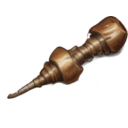
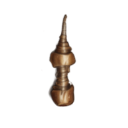
projectiles in angle

Changed region(s): [[0.0312, 0.0938, 1.0, 0.8438]]

diff --git a/game/savegame/travel/main/SpriteModel.js b/game/savegame/travel/main/SpriteModel.js
@@ -1,6 +1,6 @@
 import ImageModel from "wgge/game/resources/image/ImageModel";
-import FloatValue from "wgge/core/model/value/FloatValue";
 import Vector2 from "wgge/core/model/vector/Vector2";
+import Rotation from "wgge/core/model/vector/Rotation";
 
 export const SPRITE_SPLATTER = 'img/character/splatter.png';
 export const SPRITE_DART = 'img/item/weapon/dart.png';
@@ -8,7 +8,7 @@ export const SPRITE_DART = 'img/item/weapon/dart.png';
 export default class SpriteModel extends ImageModel {
 
 	/**
-	 * @type FloatValue
+	 * @type Rotation
 	 */
 	rotation;
 
@@ -21,7 +21,7 @@ export default class SpriteModel extends ImageModel {
 		super(persistent);
 
 		this.size.set(1, 1);
-		this.rotation = this.addProperty('rotation', new FloatValue());
+		this.rotation = this.addProperty('rotation', new Rotation());
 		this.position = this.addProperty('position', new Vector2());
 	}
 

diff --git a/game/savegame/travel/main/MainViewRenderer.js b/game/savegame/travel/main/MainViewRenderer.js
@@ -449,6 +449,12 @@ export default class MainViewRenderer extends CanvasRenderer {
 					sprite.size.y * this.model.tiles.tileSizePx.get()
 				);
 				const start = center.sub(size.multiply(0.5));
+				const rotation = sprite.rotation.get();
+				if (rotation !== 0) {
+					this.context2d.translate(center.x, center.y);
+					this.context2d.rotate(rotation);
+					this.context2d.translate(-center.x, -center.y);
+				}
 				this.drawImage(
 					img,
 					start,
@@ -458,6 +464,11 @@ export default class MainViewRenderer extends CanvasRenderer {
 					1,
 					false
 				);
+				if (rotation !== 0) {
+					this.context2d.translate(center.x, center.y);
+					this.context2d.rotate(-rotation);
+					this.context2d.translate(-center.x, -center.y);
+				}
 			}
 		);
 

diff --git a/game/savegame/units/group/GroupController.js b/game/savegame/units/group/GroupController.js
@@ -152,6 +152,10 @@ export default class GroupController extends ControllerBase {
 					const sprite = new SpriteModel();
 					sprite.uri.set(SPRITE_DART);
 					sprite.position.set(this.model.position);
+					const rotation = group.position.getRotationFromYAxis(this.model.position);
+					console.log('rotation', rotation.get());
+					sprite.rotation.set(-rotation.get());
+
 					this.save.travel.sprites.add(sprite);
 					this.addChild(
 						new AnimationVector2Controller(
